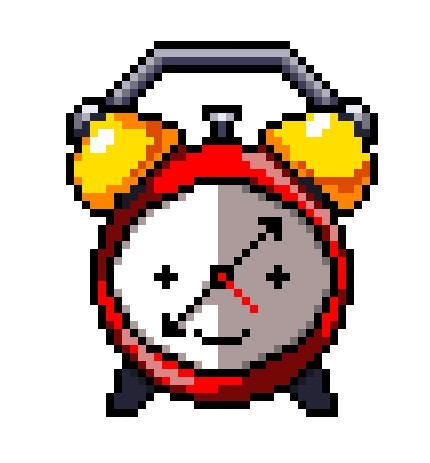
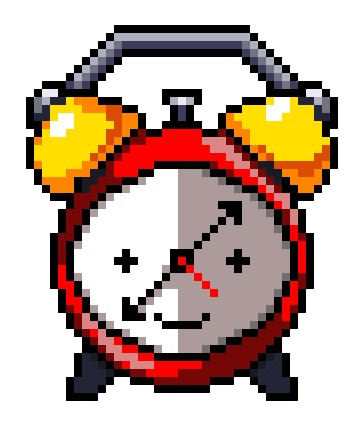
agreados sprites

diff --git a/src/scenes/game-scene.js b/src/scenes/game-scene.js
@@ -21,9 +21,10 @@ preload(){
 this.load.image('background','assets/background.png')
 this.load.image('player','assets/player.png')
 this.load.image('enemy','assets/enemy.png')
-this.load.image("balas", "assets/bala.jpg")
-this.load.image("cursor", "assets/cursor.png");
-
+this.load.image("cursor", "assets/cursor.png")
+this.load.image("balas", "assets/bala.png")
+this.load.image("player-back", "assets/player-back.png")
+this.load.image("cursor", "assets/cursor.png")
 
 }
 create(){
@@ -148,15 +149,17 @@ player.body.setVelocityX(-VELOCIDAD_JUGADOR);
 player.body.setVelocityX(VELOCIDAD_JUGADOR);
 } else {
 player.body.setVelocityX(0);
+player.setTexture('player');
 }
 //MOVIMIENTO ARR, ABA--------------------------------------------------------------
 if (teclas.up.isDown) {
 player.body.setVelocityY(-VELOCIDAD_JUGADOR);
+player.setTexture('player-back'); 
 } else if (teclas.down.isDown) {
 player.body.setVelocityY(VELOCIDAD_JUGADOR);
 } else {
 player.body.setVelocityY(0);
+player.setTexture('player');
 }
 }
-
 }

diff --git a/src/scenes/game-over.js b/src/scenes/game-over.js
@@ -10,6 +10,7 @@ export class GameOver extends Phaser.Scene {
    }
    
    create() {
+  this.input.setDefaultCursor('default');
    const gameWidth = this.scale.width;
    const gameHeight = this.scale.height;
    const bg = this.add.image(gameWidth / 2,gameHeight / 2,'game-over');
